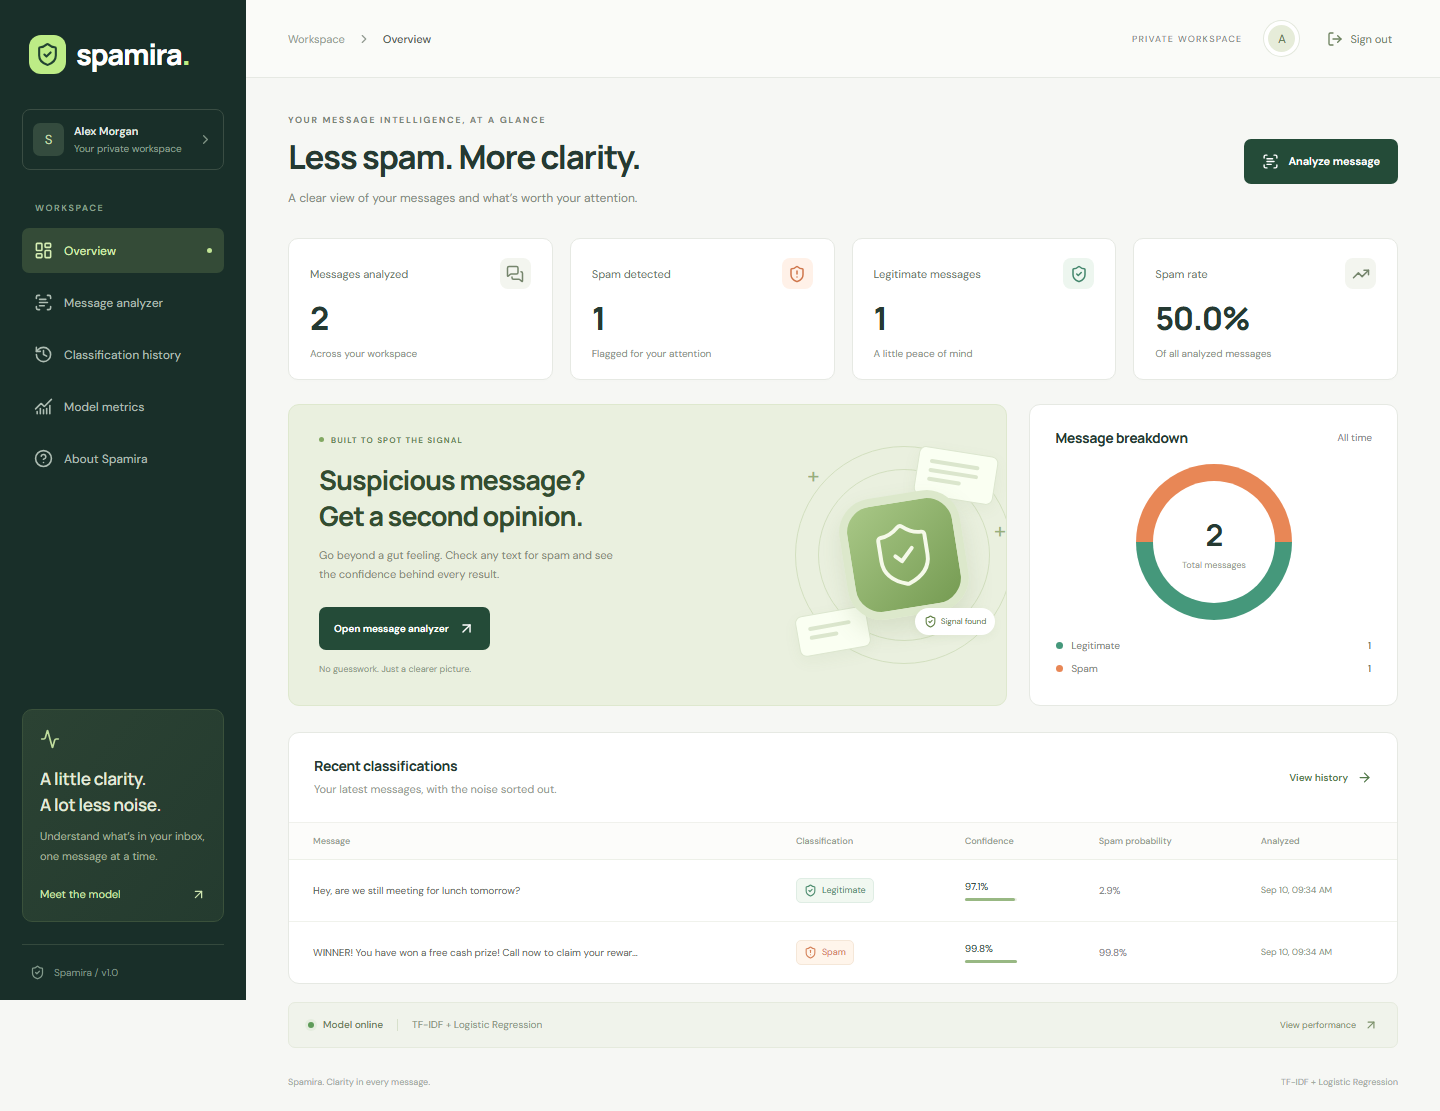
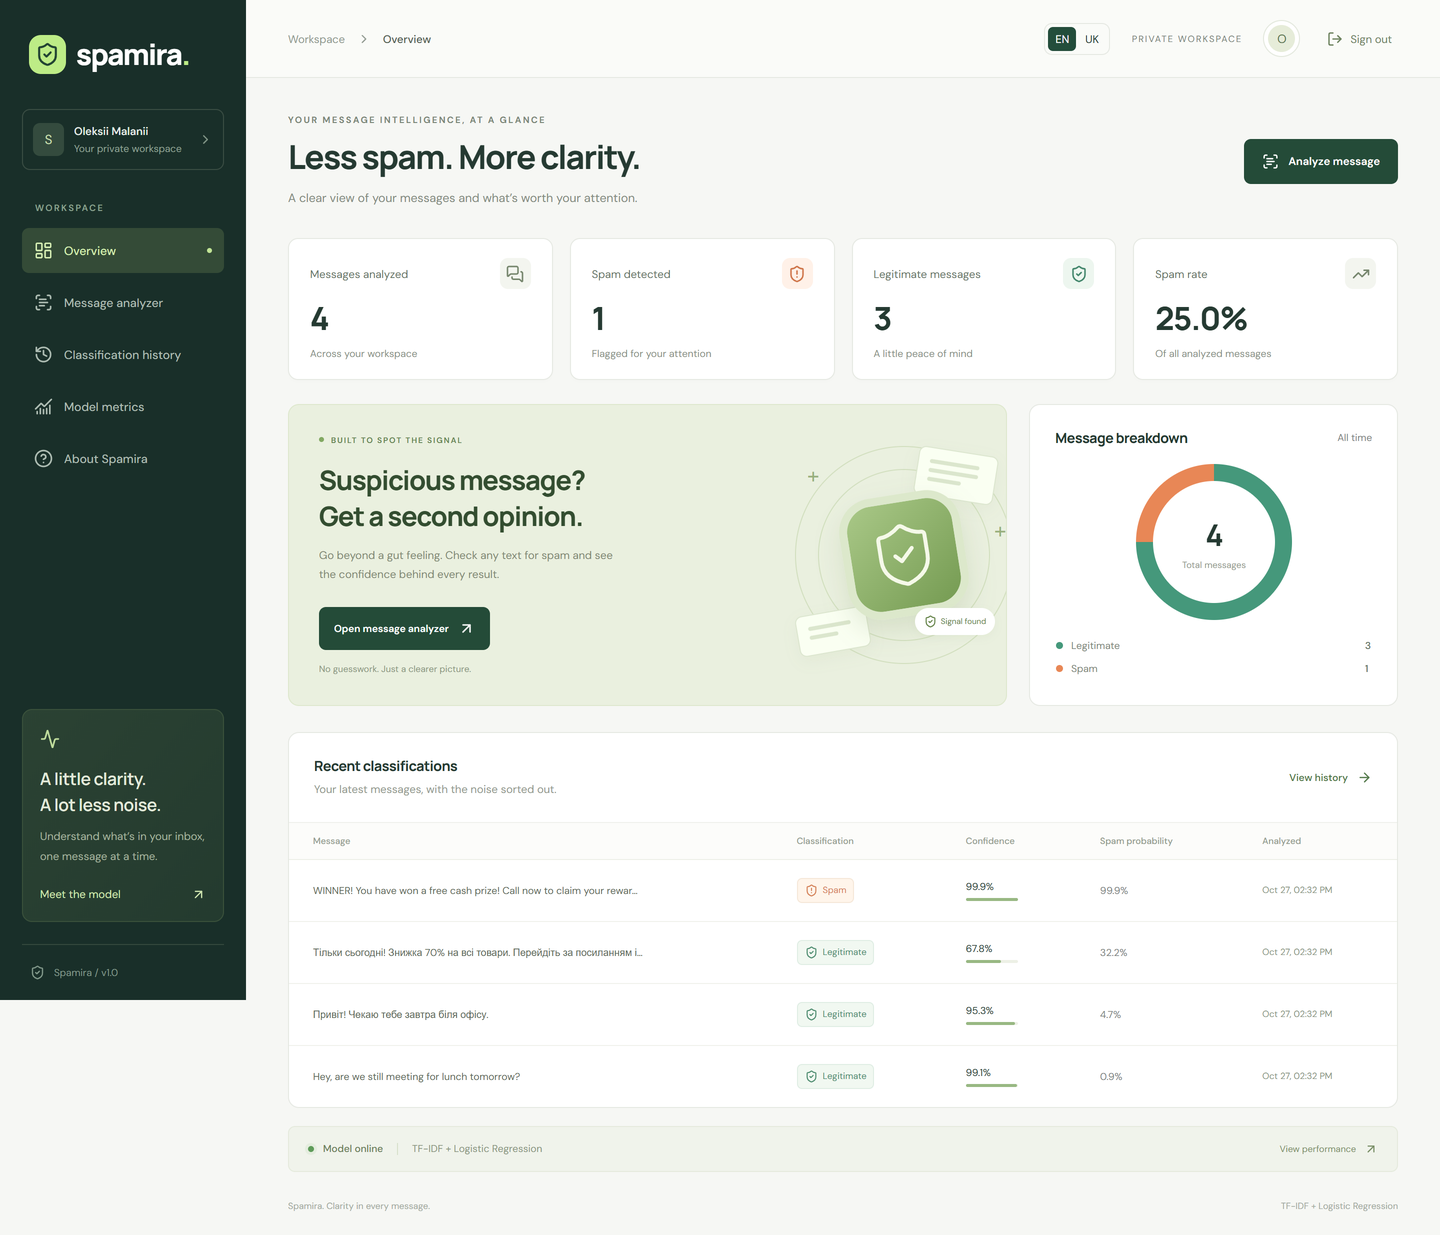
docs: refresh screenshots for the bilingual release
Replace all interface screenshots with captures of the current
English/Ukrainian release, including the EN/UK switch and the
metrics of model sms-en-uk-tfidf-lr-2-32e6893b. The README now
shows the English metrics page instead of the Ukrainian one.

diff --git a/README.md b/README.md
@@ -21,7 +21,7 @@ Spamira turns a text message into a clear classification, a confidence score, an
 - **Responsive interface:** desktop sidebar, mobile navigation, accessible forms, loading, empty, and error states.
 - **Operational foundations:** PostgreSQL persistence, EF Core migrations, safe errors, health checks, tests, and Docker Compose.
 
-![Ukrainian interface and bilingual model evaluation](docs/screenshots/metrics-uk.png)
+![Model metrics with English and Ukrainian evaluation](docs/screenshots/metrics-desktop.png)
 
 ## Architecture
 
